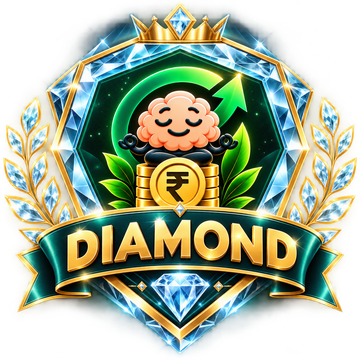
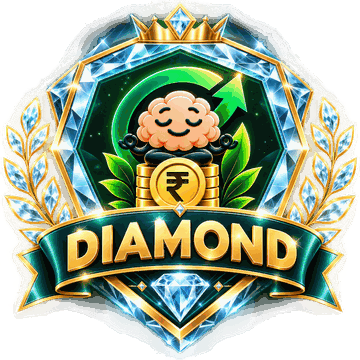
Perf: recompress PNG assets (palette-quantize) — ~5MB smaller (#83)
Badges, hero, logos, PWA icons and og-cover were stored as full RGBA PNGs
(230-1200KB each). Palette-quantize to 256 colours with optimize — visually
identical at every display size (verified) but far smaller:
  badges 230-265KB -> ~50KB each; hero 217->96KB; logo-tile 164->33KB;
  icon-512 314->65KB; logo-full 1189->208KB; og-cover 533->83KB.
Same pixel dimensions, so no markup changes. Bump SW cache v148 -> v149
so precached icons refresh.

Claude-Session: https://claude.ai/code/session_01JsD7YpqckwD5hiqNQX63bq

diff --git a/app/sw.js b/app/sw.js
@@ -1,6 +1,6 @@
 /* ChintasMoney service worker — offline app shell.
  * Bump CACHE when you ship new app files so clients update. */
-var CACHE = "chintasmoney-v148";
+var CACHE = "chintasmoney-v149";
 var SHELL = [
   "./index.html",
   "./styles.css?v=20260922b",
